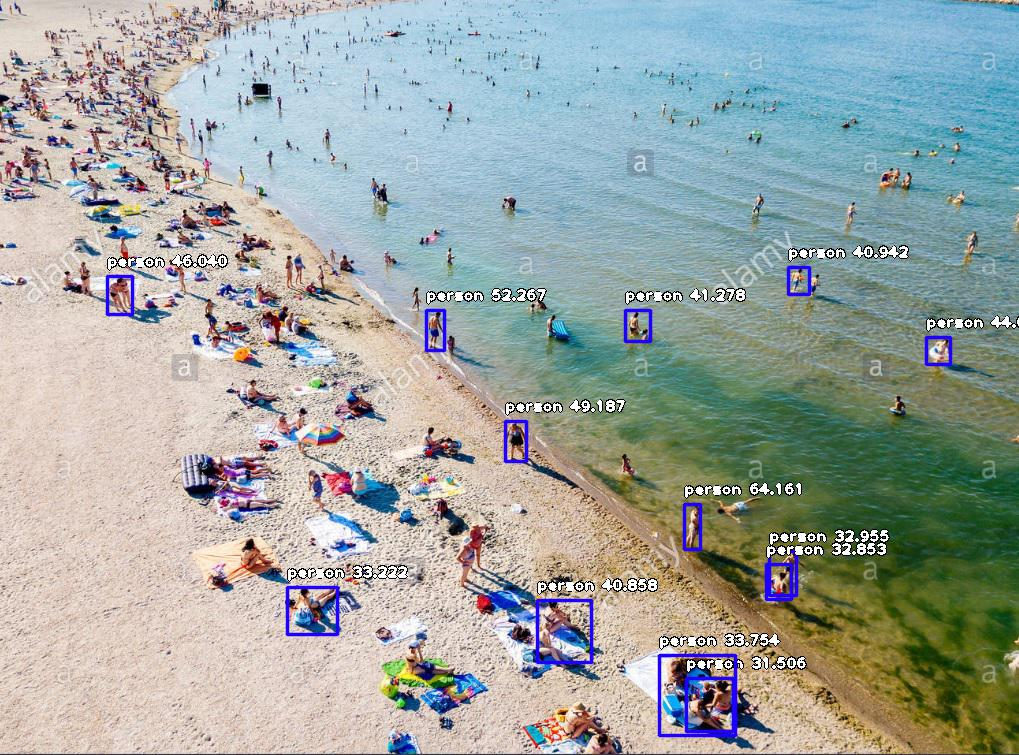
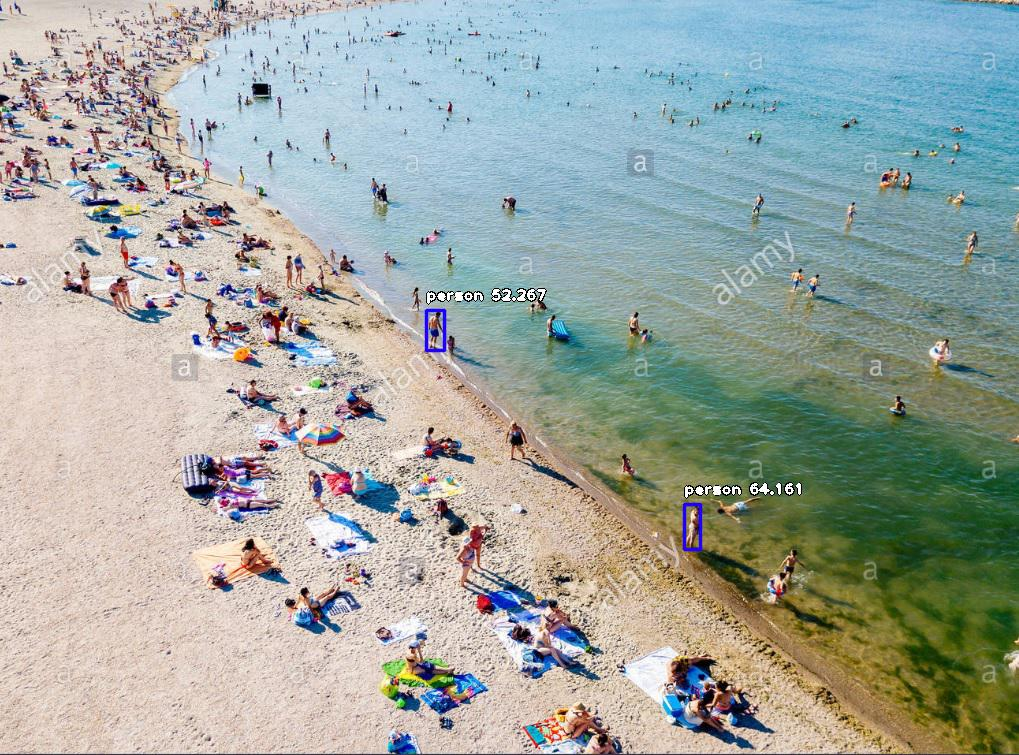
GPS calculations

diff --git a/EdgeServer/Human_Recognition/ObjectDetection.py b/EdgeServer/Human_Recognition/ObjectDetection.py
@@ -22,19 +22,6 @@ def get_exif(filename):
     	return "no GPS data"
     return exif
 
-#convert to human-readable GPS coordinates
-def get_coordinates(info):
-    for key in ['Latitude', 'Longitude']:
-        if 'GPS'+key in info and 'GPS'+key+'Ref' in info:
-            e = info['GPS'+key]
-            ref = info['GPS'+key+'Ref']
-            info[key] = ( str(e[0][0]/e[0][1]) + '°' +
-                          str(e[1][0]/e[1][1]) + '′' +
-                          str(e[2][0]/e[2][1]) + '″ ' +
-                          ref )
-    if 'Latitude' in info and 'Longitude' in info:
-        return [info['Latitude'], info['Longitude']]
-
 #convert to decimal GPS coordinates
 def get_decimal_coordinates(info):
     for key in ['Latitude', 'Longitude']:
@@ -61,10 +48,11 @@ custom = detector.CustomObjects(person=True)
 
 for filename in os.listdir(input_path):
 	if filename.endswith(".jpg"):
-		detections = detector.detectCustomObjectsFromImage(custom_objects=custom, input_image=os.path.join(input_path , filename), output_image_path=os.path.join(output_path , "new" + filename), minimum_percentage_probability=30)
+		detections = detector.detectCustomObjectsFromImage(custom_objects=custom, input_image=os.path.join(input_path , filename), output_image_path=os.path.join(output_path , "new" + filename), minimum_percentage_probability=50)
 		print(filename)
 		for eachObject in detections:
-			print(eachObject["name"] , " : " , eachObject["percentage_probability"])
+			x1, y1, x2, y2 = eachObject["box_points"]
+			print(eachObject["name"] , " : " , eachObject["percentage_probability"],  " : ", "("+str((x1+x2)*.5) + ", " + str(y2) +")")
 			if get_exif(os.path.join(input_path , filename)) != "no GPS data":
 				print(get_decimal_coordinates(get_exif(os.path.join(input_path , filename))['GPSInfo']))
 		continue
